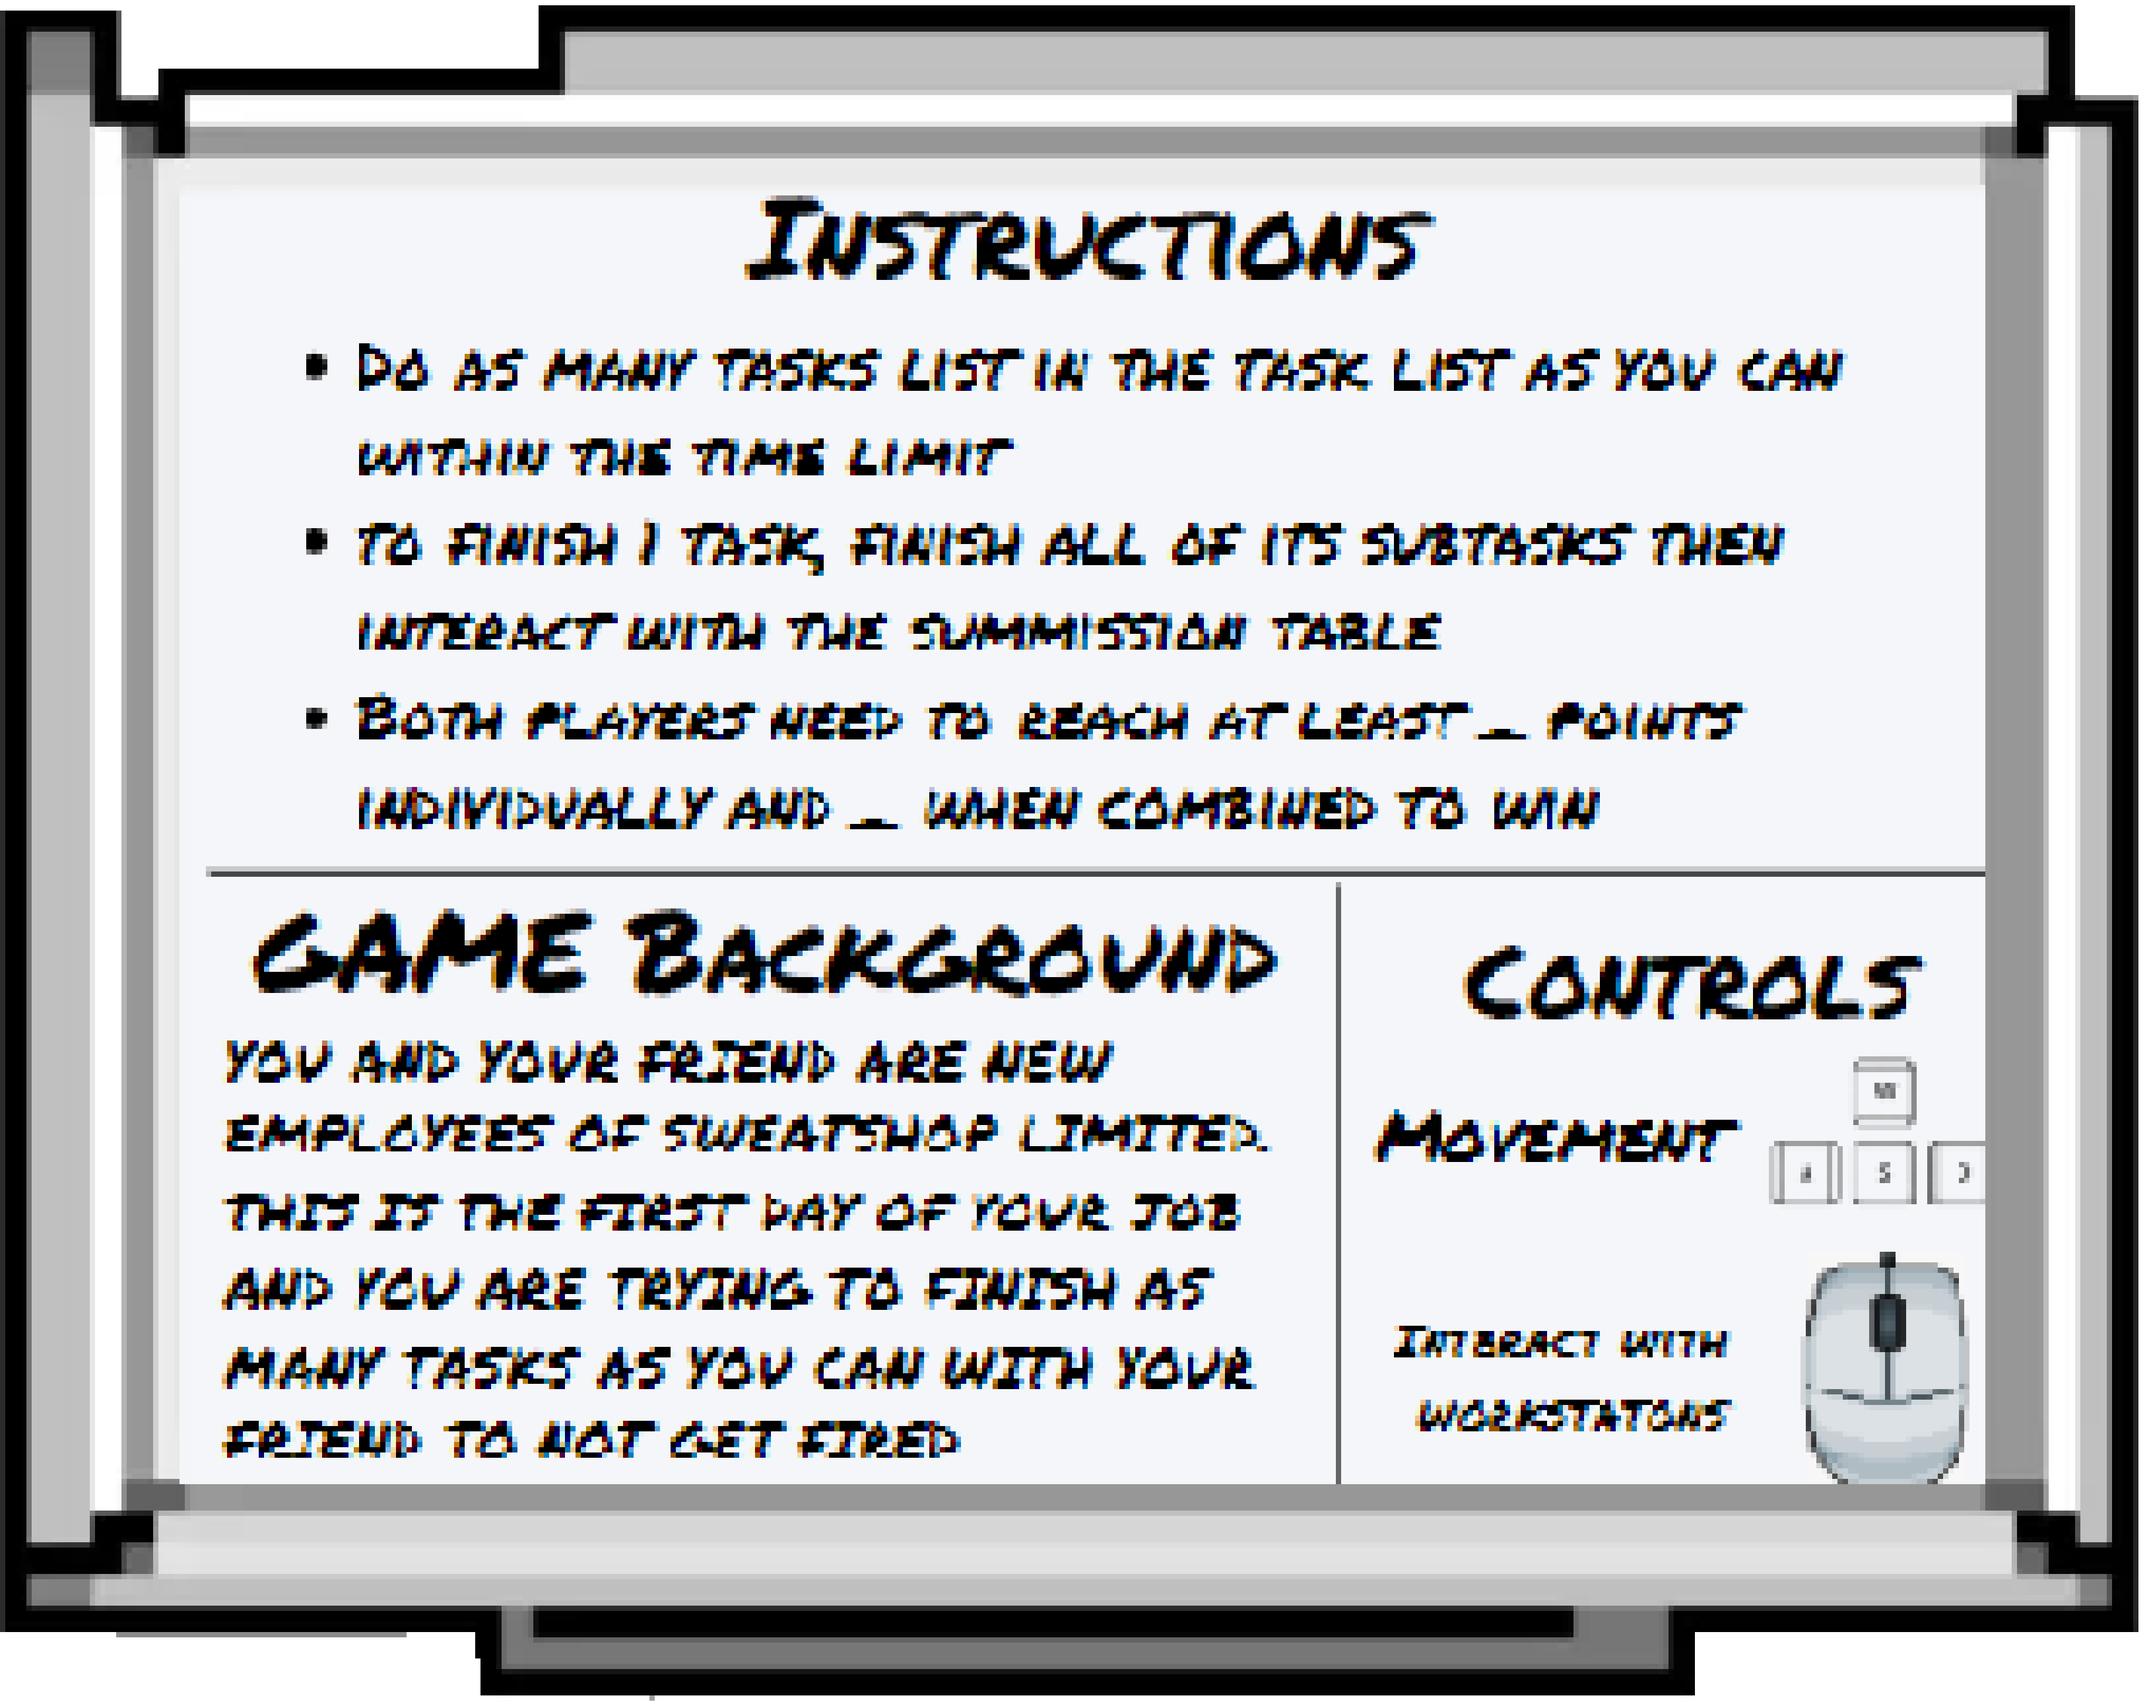
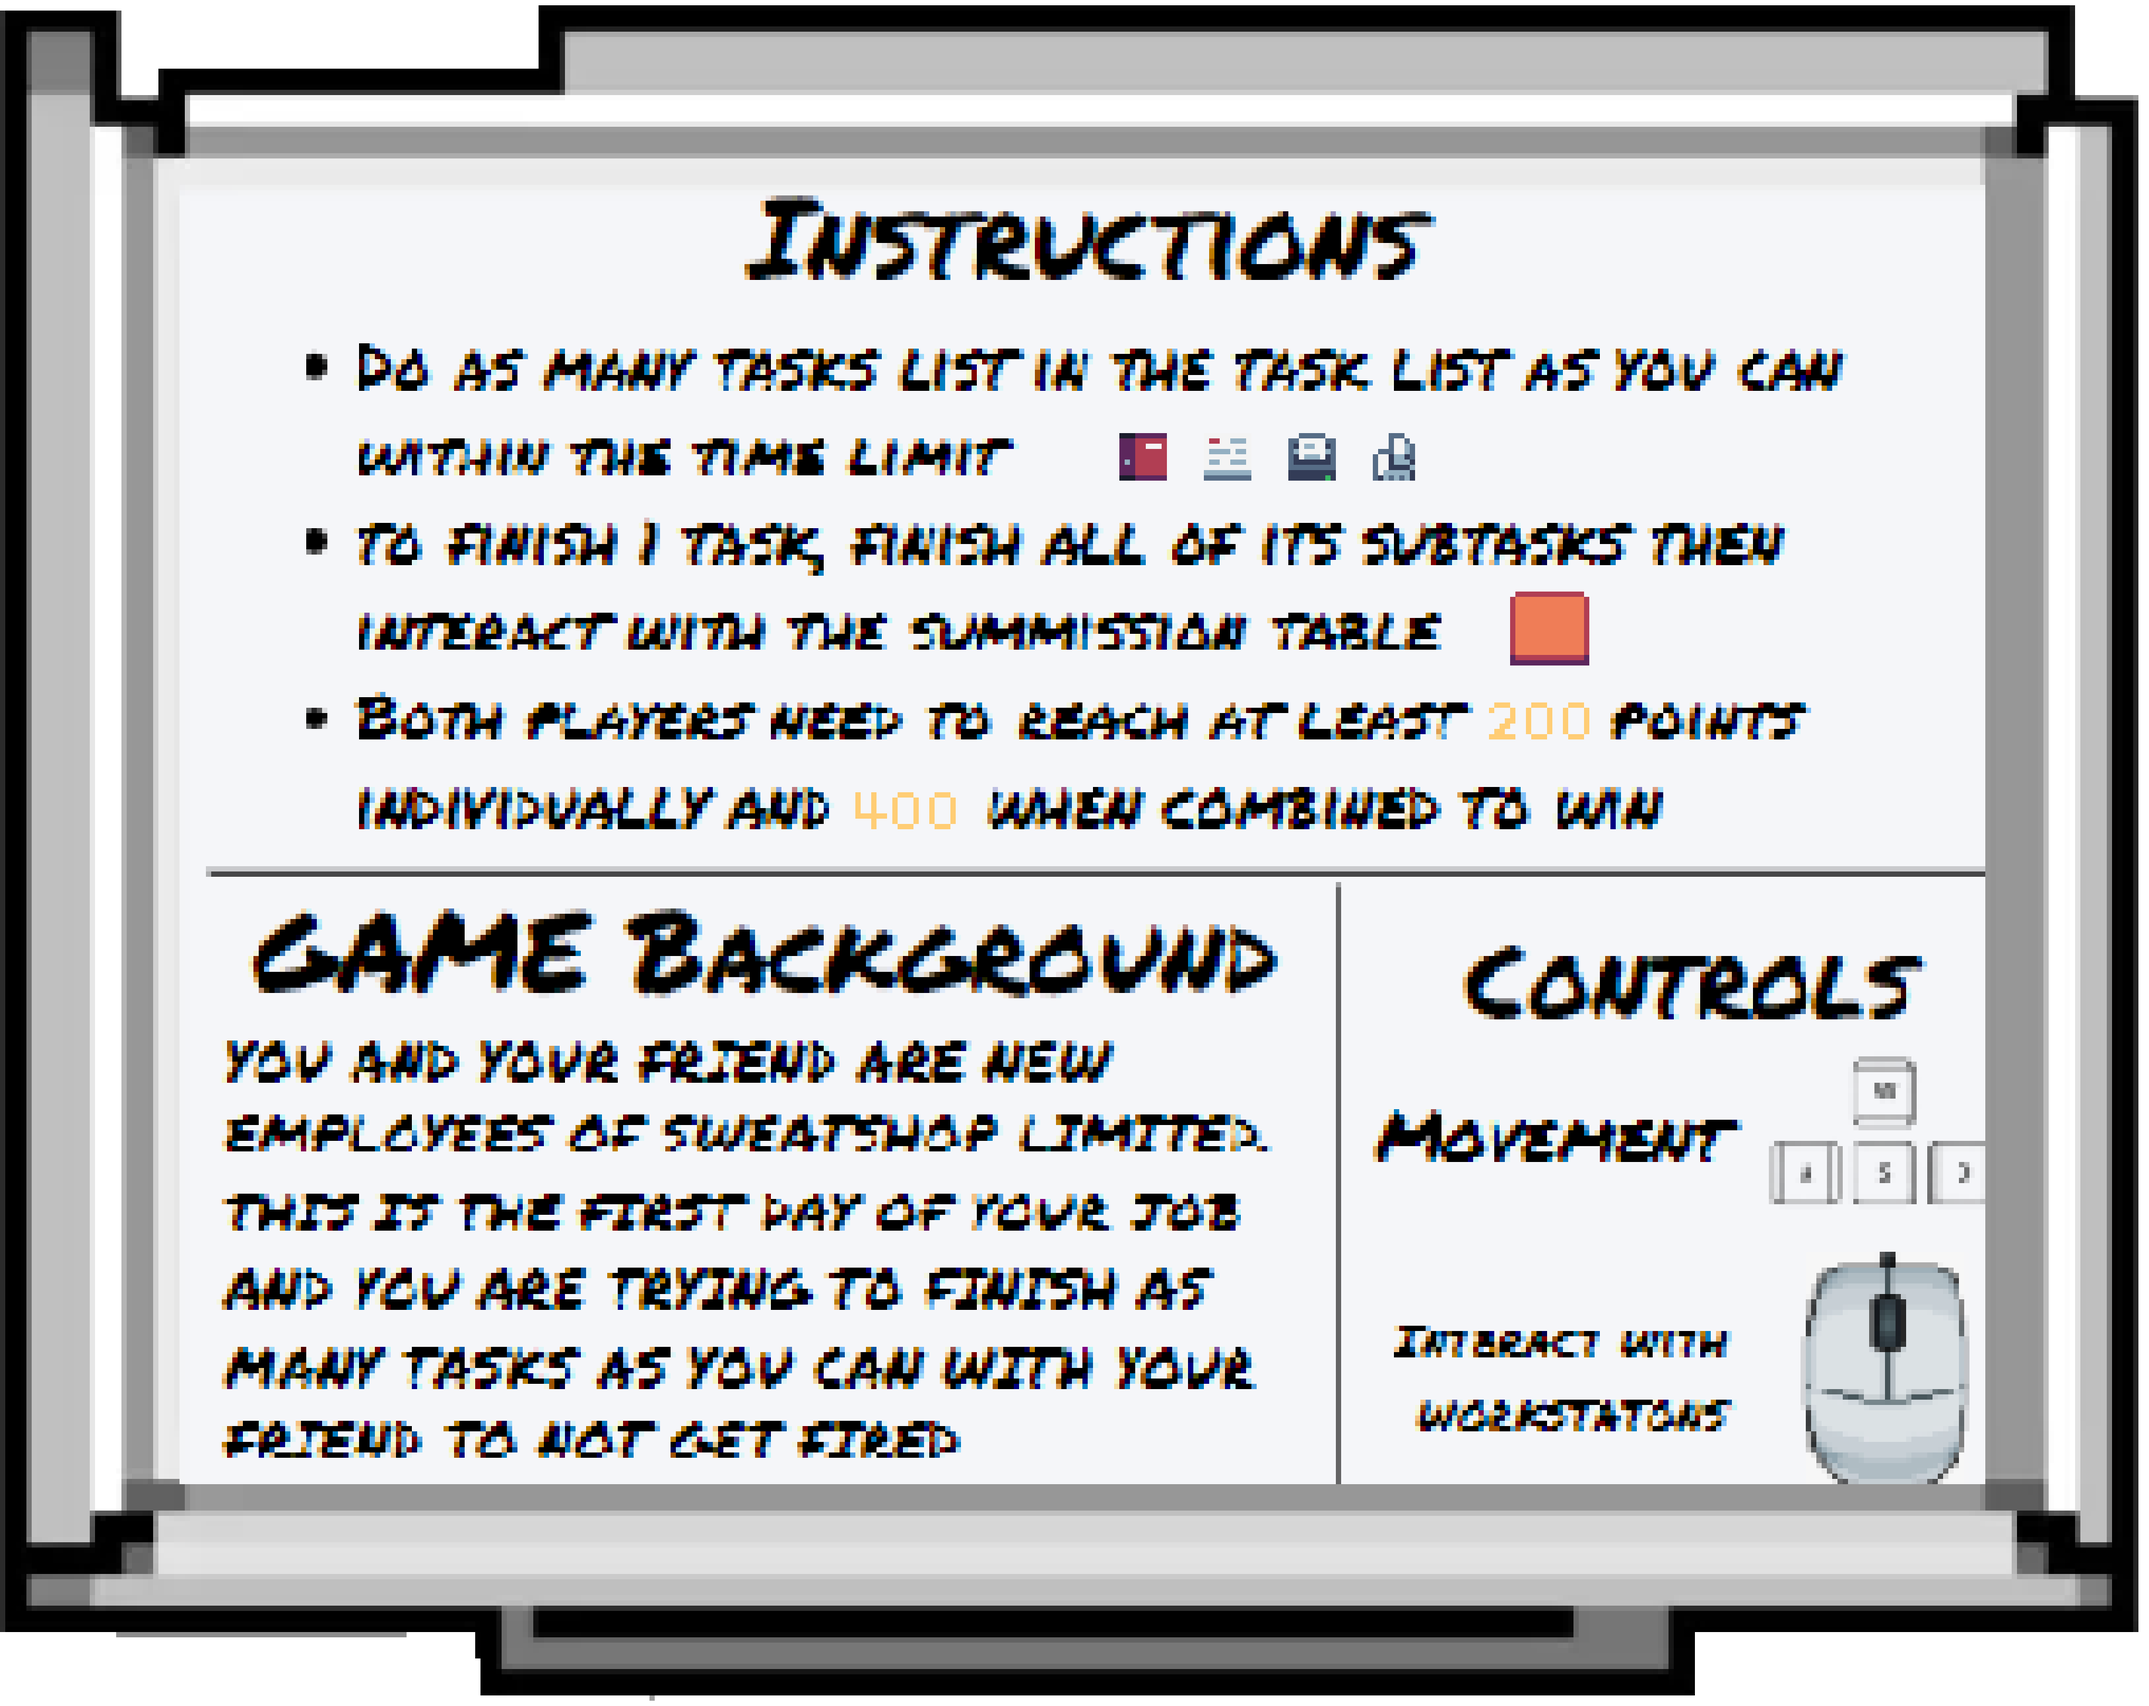
Updated the instruction whiteboard; Added a win condition check

Changed region(s): [[0.3744, 0.4644, 0.7801, 0.4954], [0.6865, 0.3406, 0.8425, 0.4334], [0.4993, 0.2477, 0.6553, 0.2786]]

diff --git a/server/server.js b/server/server.js
@@ -461,9 +461,13 @@ io.on('connection',(socket)=>{
                 });    
             
                 // 4. Determine if they players have won or lost
-                // Assume always win for now for testing
-                const gameState = 'win';
-            
+                // Total score needs to be >= 400. Each player needs to be >= 200
+                let gameState;
+                if (totalScore >= 400 & player1Score >= 200 & player2Score >= 200) {
+                    gameState = 'win';
+                } else{
+                    gameState = 'lose';
+                }
                 // 5. Store the gameover status
                 gameoverStatus = {player1Name, player1Score, player2Name, player2Score, totalScore, gameState};
         

diff --git a/public/game.js b/public/game.js
@@ -436,6 +436,7 @@ function drawAnimation(now){
                 } 
                 // Stop the task music when the player leaves the task area
                 else if (interactionState == 1) {
+                    console.log("Leaving task area");
                     bookSFX.pause();
                     keyboardSFX.pause();
                     printerSFX.pause();
